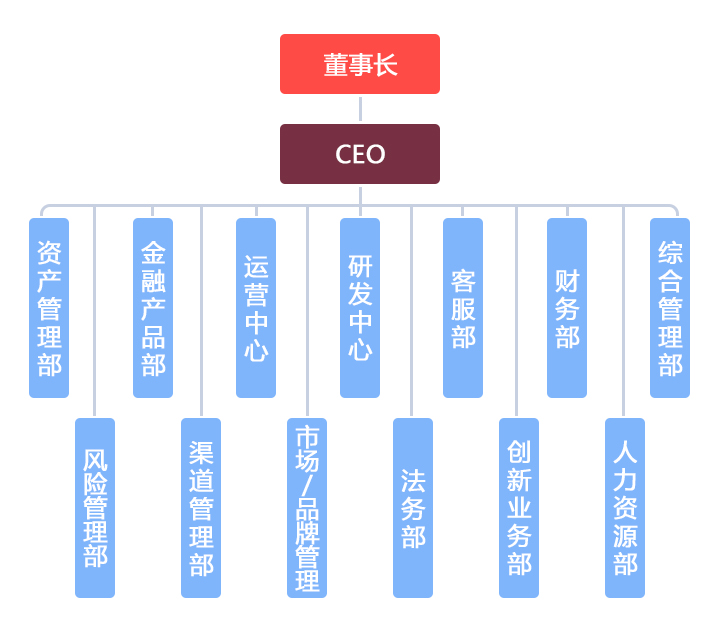
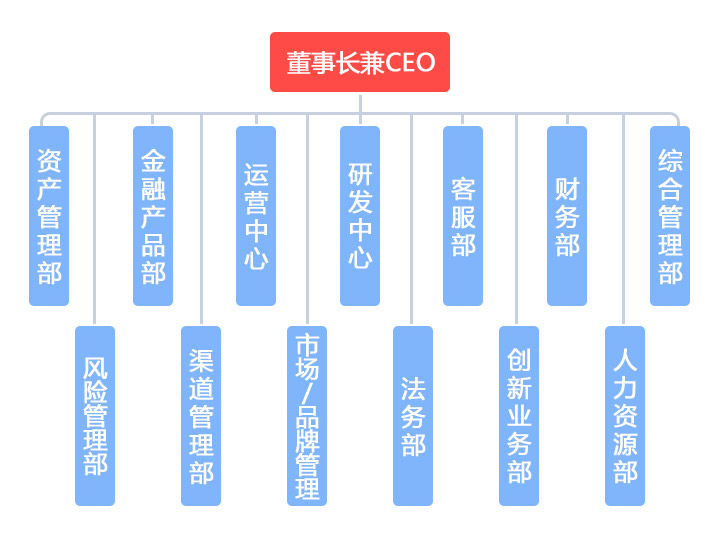
fix

Changed region(s): [[0.0309, 0.0309, 0.9888, 0.9891]]

diff --git a/apps/wap/p2p/pages/notice/disclosure.js b/apps/wap/p2p/pages/notice/disclosure.js
@@ -135,7 +135,7 @@ class MiddlePanel extends React.Component {
         let chairman = [
             {
                 img: require("../../images/notice/disclosure/men2.png"),
-                name: '魏薇·董事长',
+                name: '魏薇·董事长兼CEO',
                 job: '',
                 profile: '毕业于中国人民大学。曾任北京联合开元投资担保有限公司副总经理和联合创业集团有限公司营运管理中心总经理。经过10余年金融行业管理岗位的历练，拥有丰富的网贷行业实战经验和全面而独到的行业视角及理念，是小微金融的领军人物，普惠金融体系的积极践行者。'
             },

diff --git a/apps/wap/p2p/css/notice/disclosure.css b/apps/wap/p2p/css/notice/disclosure.css
@@ -432,8 +432,7 @@
 
 .orgPic {
     display: block;
-    width: 712px;
-    height: 620px;
+    width: 100%;
     margin: 50px auto;
 }
 
@@ -518,7 +517,6 @@
 }
 
 .personRTitle {
-    width: 200px;
     height: 120px;
     font-size: 24px;
     padding-left: 40px;
